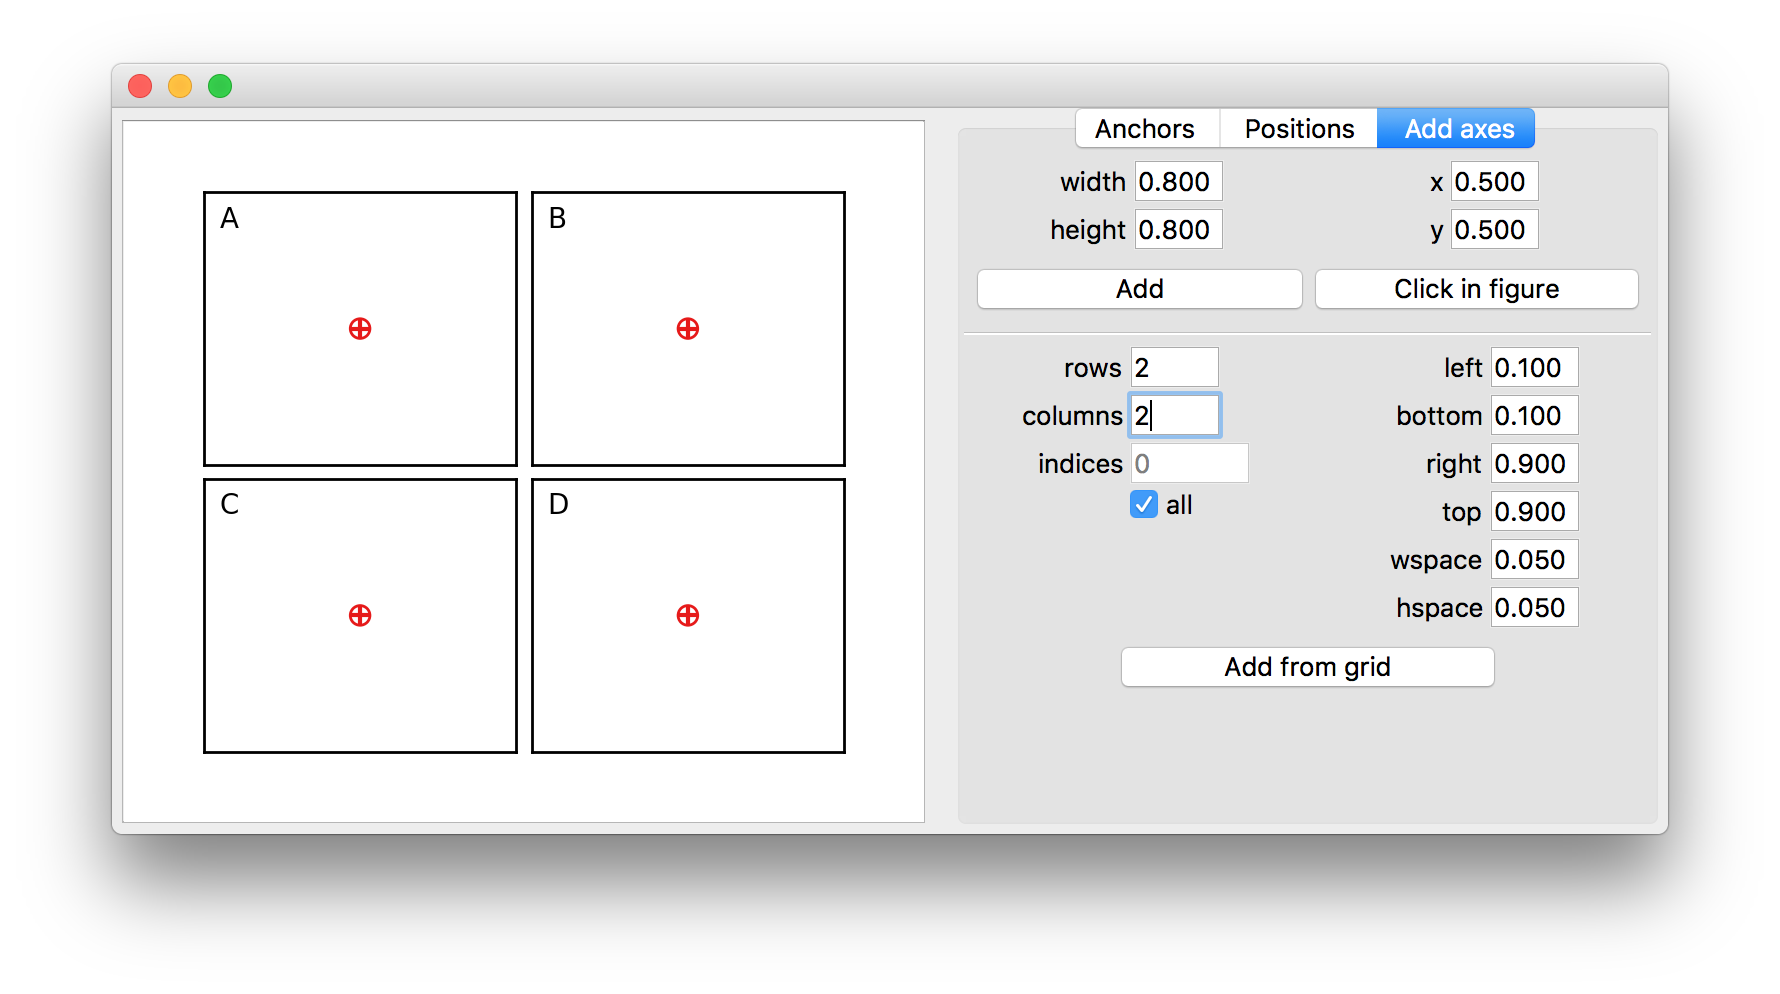
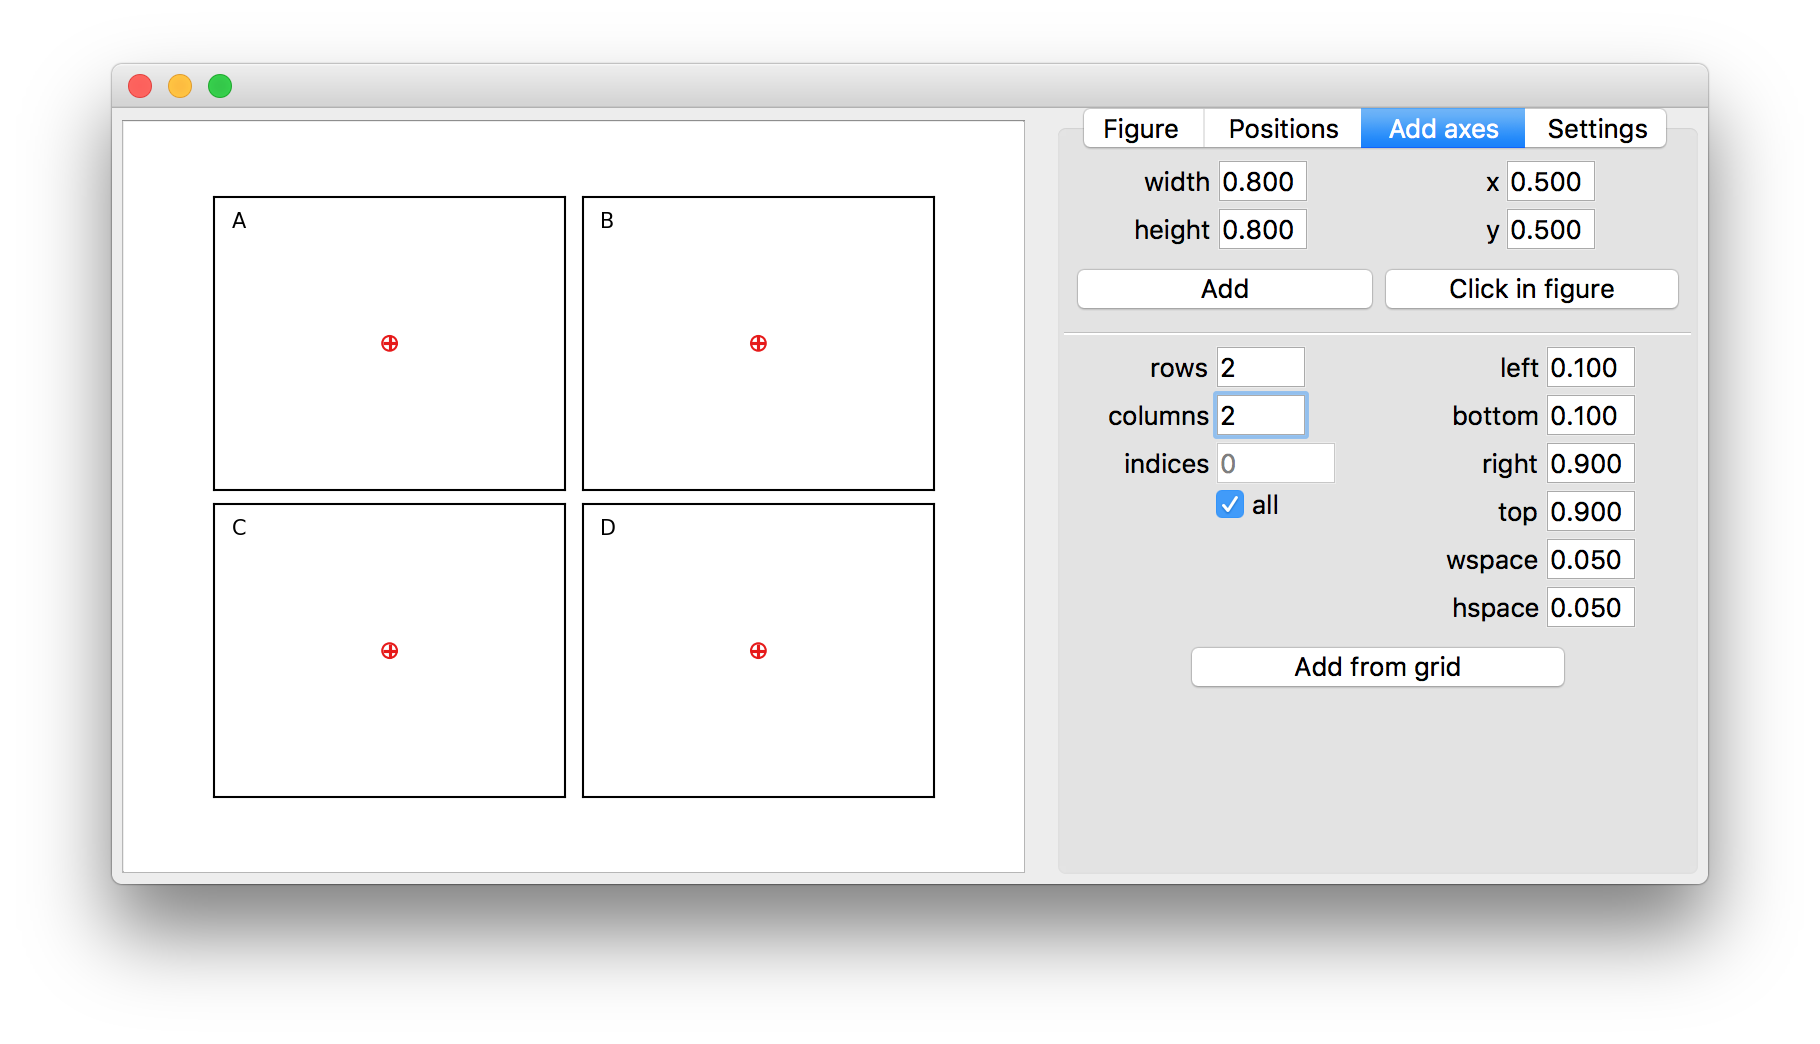
screenshots update and default figure size reduced to fit window

diff --git a/axpositioning/__main__.py b/axpositioning/__main__.py
@@ -3,8 +3,8 @@ from .gui import position_axes_gui
 
 
 p = argparse.ArgumentParser()
-p.add_argument('-W', '--width', dest='width', nargs='?', default=8)
-p.add_argument('-H', '--height', dest='height', nargs='?', default=6)
+p.add_argument('-W', '--width', dest='width', nargs='?', default=6)
+p.add_argument('-H', '--height', dest='height', nargs='?', default=5)
 
 if __name__ == '__main__':
     kw = vars(p.parse_args())
